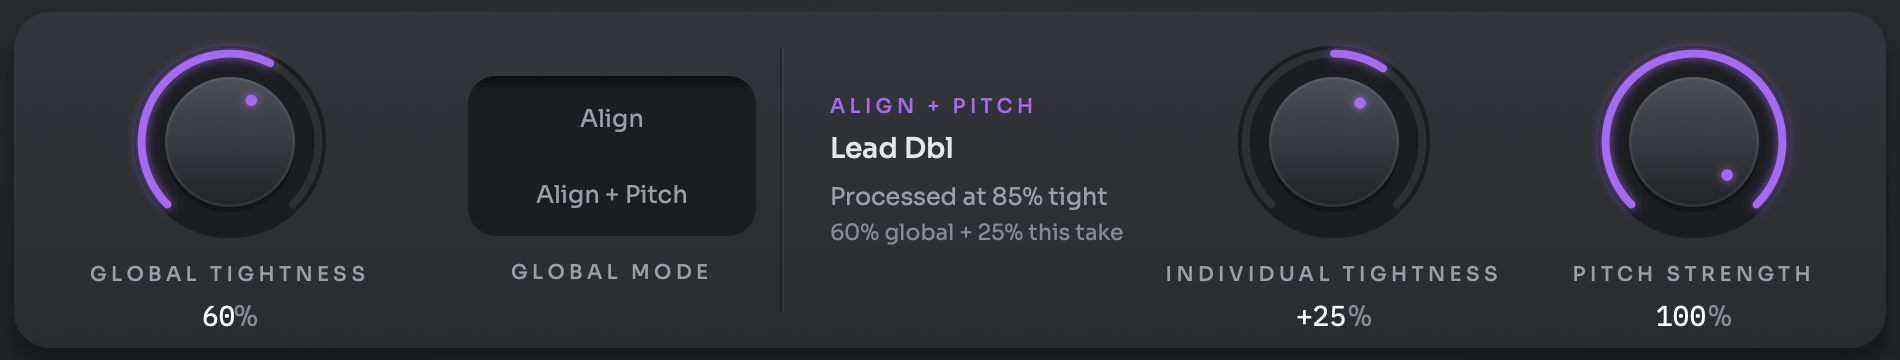
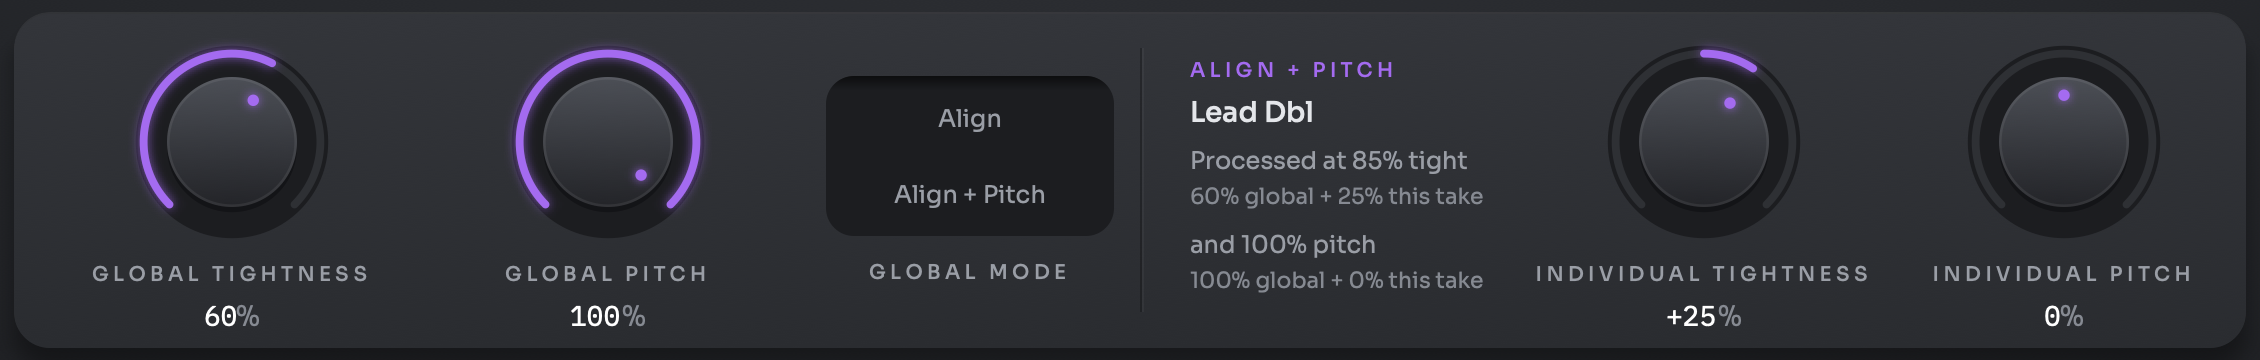
Vocal Lock 0.8.2: Global pitch screenshots, cleaner whispers
Claude-Session: https://claude.ai/code/session_01BQjw6xuzig4ST8CYGsEcL6

diff --git a/vocal-lock/index.html b/vocal-lock/index.html
@@ -22,7 +22,7 @@
   "url": "https://gggaudio.store/vocal-lock/",
   "image": "https://gggaudio.store/img/vocal-lock-icon@2x.png",
   "description": "Mac app that aligns vocal doubles and harmonies to a lead vocal's timing, optionally follows its pitch, and makes artificial doubles.",
-  "softwareVersion": "0.8.1",
+  "softwareVersion": "0.8.2",
   "offers": { "@type": "Offer", "price": "0", "priceCurrency": "USD", "url": "https://gggaudio.store/vocal-lock/" }
 }
 </script>
@@ -406,7 +406,7 @@
 
 <main>
   <section class="hero wrap">
-    <p class="eyebrow mono"><span class="live-dot" aria-hidden="true"></span> VL-05 · v0.8.1 · Free</p>
+    <p class="eyebrow mono"><span class="live-dot" aria-hidden="true"></span> VL-05 · v0.8.2 · Free</p>
     <h1 class="display">Vocal Lock</h1>
     <p class="hero-tag display">Tight doubles, no editing.</p>
     <p class="hero-sub">Drop in your lead vocal and the takes that go with it. Vocal Lock moves every double and
@@ -417,7 +417,7 @@
     </div>
     <figure class="screen" style="margin:0;">
       <button class="zoom" type="button" data-full="img/01-app.png" aria-label="Enlarge screenshot: the Vocal Lock app">
-        <img src="img/01-app.png" sizes="(max-width: 1128px) 100vw, 1032px" alt="The Vocal Lock app: the lead vocal's waveform as the guide at the top, global tightness and mode controls in the middle, and the takes below, each with its own mode, status and waveform." width="1960" height="1600">
+        <img src="img/01-app.png" sizes="(max-width: 1128px) 100vw, 1032px" alt="The Vocal Lock app: the lead vocal's waveform as the guide at the top, global tightness, pitch and mode controls in the middle, and the takes below, each with its own mode, status and waveform." width="2320" height="1600">
       </button>
     </figure>
     <div class="screen-caption mono" aria-hidden="true">
@@ -455,12 +455,12 @@
         <h2 class="display">Align, or align and follow pitch</h2>
         <p>Align moves each take onto the guide's timing and leaves its notes alone. Align + Pitch also bends it
            onto the guide's pitch. Set every take at once with Global mode, or pick per take on its row. One
-           tightness knob for all of them, with a nudge up or down for any take that needs it.</p>
+           tightness knob and one pitch knob for all of them, with a nudge up or down for any take that needs it.</p>
       </div>
       <div class="feature-media">
         <figure class="screen" style="margin:0;">
           <button class="zoom" type="button" data-full="img/02-global.png" aria-label="Enlarge screenshot: the global and per-take controls">
-            <img src="img/02-global.png" sizes="(max-width: 800px) 100vw, 55vw" alt="The controls panel: Global tightness at 60%, Global mode set to Align + Pitch, and the selected take's Individual tightness at +25% and Pitch strength at 100%." width="1900" height="360" loading="lazy">
+            <img src="img/02-global.png" sizes="(max-width: 800px) 100vw, 55vw" alt="The controls panel: Global tightness at 60%, Global pitch at 100%, Global mode, and the selected Align + Pitch take processed at 85% tight and 100% pitch, with its Individual tightness at +25% and Individual pitch at 0." width="2260" height="360" loading="lazy">
           </button>
         </figure>
         <div class="screen-caption mono" aria-hidden="true">
@@ -476,7 +476,7 @@
       <div class="feature-media">
         <figure class="screen" style="margin:0;">
           <button class="zoom" type="button" data-full="img/03-double.png" aria-label="Enlarge screenshot: the Double controls">
-            <img src="img/03-double.png" sizes="(max-width: 800px) 100vw, 55vw" alt="The Double controls: Style set to Stereo Mild, a Take knob with a dice button for a new random double, and Output set to Lead + Double." width="1900" height="360" loading="lazy">
+            <img src="img/03-double.png" sizes="(max-width: 800px) 100vw, 55vw" alt="The Double controls: Style set to Stereo Mild, a Take knob with a dice button for a new random double, and Output set to Lead + Double." width="2260" height="360" loading="lazy">
           </button>
         </figure>
         <div class="screen-caption mono" aria-hidden="true">
@@ -517,7 +517,7 @@
   <section class="section wrap">
     <div class="section-head">
       <h2 class="display">Spec sheet</h2>
-      <span class="mono">VL-05 · v0.8.1</span>
+      <span class="mono">VL-05 · v0.8.2</span>
     </div>
     <div class="table-scroll">
       <table class="spec-table">

diff --git a/vocal-lock/download/index.html b/vocal-lock/download/index.html
@@ -7,7 +7,7 @@
 <meta name="robots" content="noindex">
 <link rel="canonical" href="https://gggaudio.store/vocal-lock/download/">
 <title>Download Vocal Lock · GGG</title>
-<meta http-equiv="refresh" content="1;url=https://github.com/gleyzeddonut/vocal-lock-releases/releases/download/app-v0.8.1/VocalLock-0.8.1.dmg">
+<meta http-equiv="refresh" content="1;url=https://github.com/gleyzeddonut/vocal-lock-releases/releases/download/app-v0.8.2/VocalLock-0.8.2.dmg">
 <style>
   /* ---------- tokens (shared with the GGG shop) ---------- */
   :root {
@@ -182,11 +182,11 @@
   <section class="hero wrap">
     <p class="eyebrow mono"><span class="live-dot" aria-hidden="true"></span> VL-05 · Free · macOS</p>
     <h1 class="display">Downloading Vocal Lock&hellip;</h1>
-    <p class="hero-sub">Version 0.8.1 is on its way — your download starts automatically.
+    <p class="hero-sub">Version 0.8.2 is on its way — your download starts automatically.
        Signed and notarized for macOS. Open the disk image, drag Vocal Lock to Applications, then open it
        and drop in your lead vocal.</p>
     <div class="hero-cta">
-      <a class="btn primary display" href="https://github.com/gleyzeddonut/vocal-lock-releases/releases/download/app-v0.8.1/VocalLock-0.8.1.dmg">Download didn't start? Click here</a>
+      <a class="btn primary display" href="https://github.com/gleyzeddonut/vocal-lock-releases/releases/download/app-v0.8.2/VocalLock-0.8.2.dmg">Download didn't start? Click here</a>
       <span class="cta-note mono">Mac app · macOS 12+ · Apple silicon &amp; Intel</span>
     </div>
   </section>

diff --git a/index.html b/index.html
@@ -512,7 +512,7 @@
           <dl>
             <div><dt>Format</dt><dd>Mac app</dd></div>
             <div><dt>Platform</dt><dd>macOS 12+ · Apple silicon &amp; Intel</dd></div>
-            <div><dt>Version</dt><dd class="live">v0.8.1 · Live</dd></div>
+            <div><dt>Version</dt><dd class="live">v0.8.2 · Live</dd></div>
           </dl>
           <a class="btn" href="https://gggaudio.store/vocal-lock/"><span>Download</span><span>Free</span></a>
         </div>
